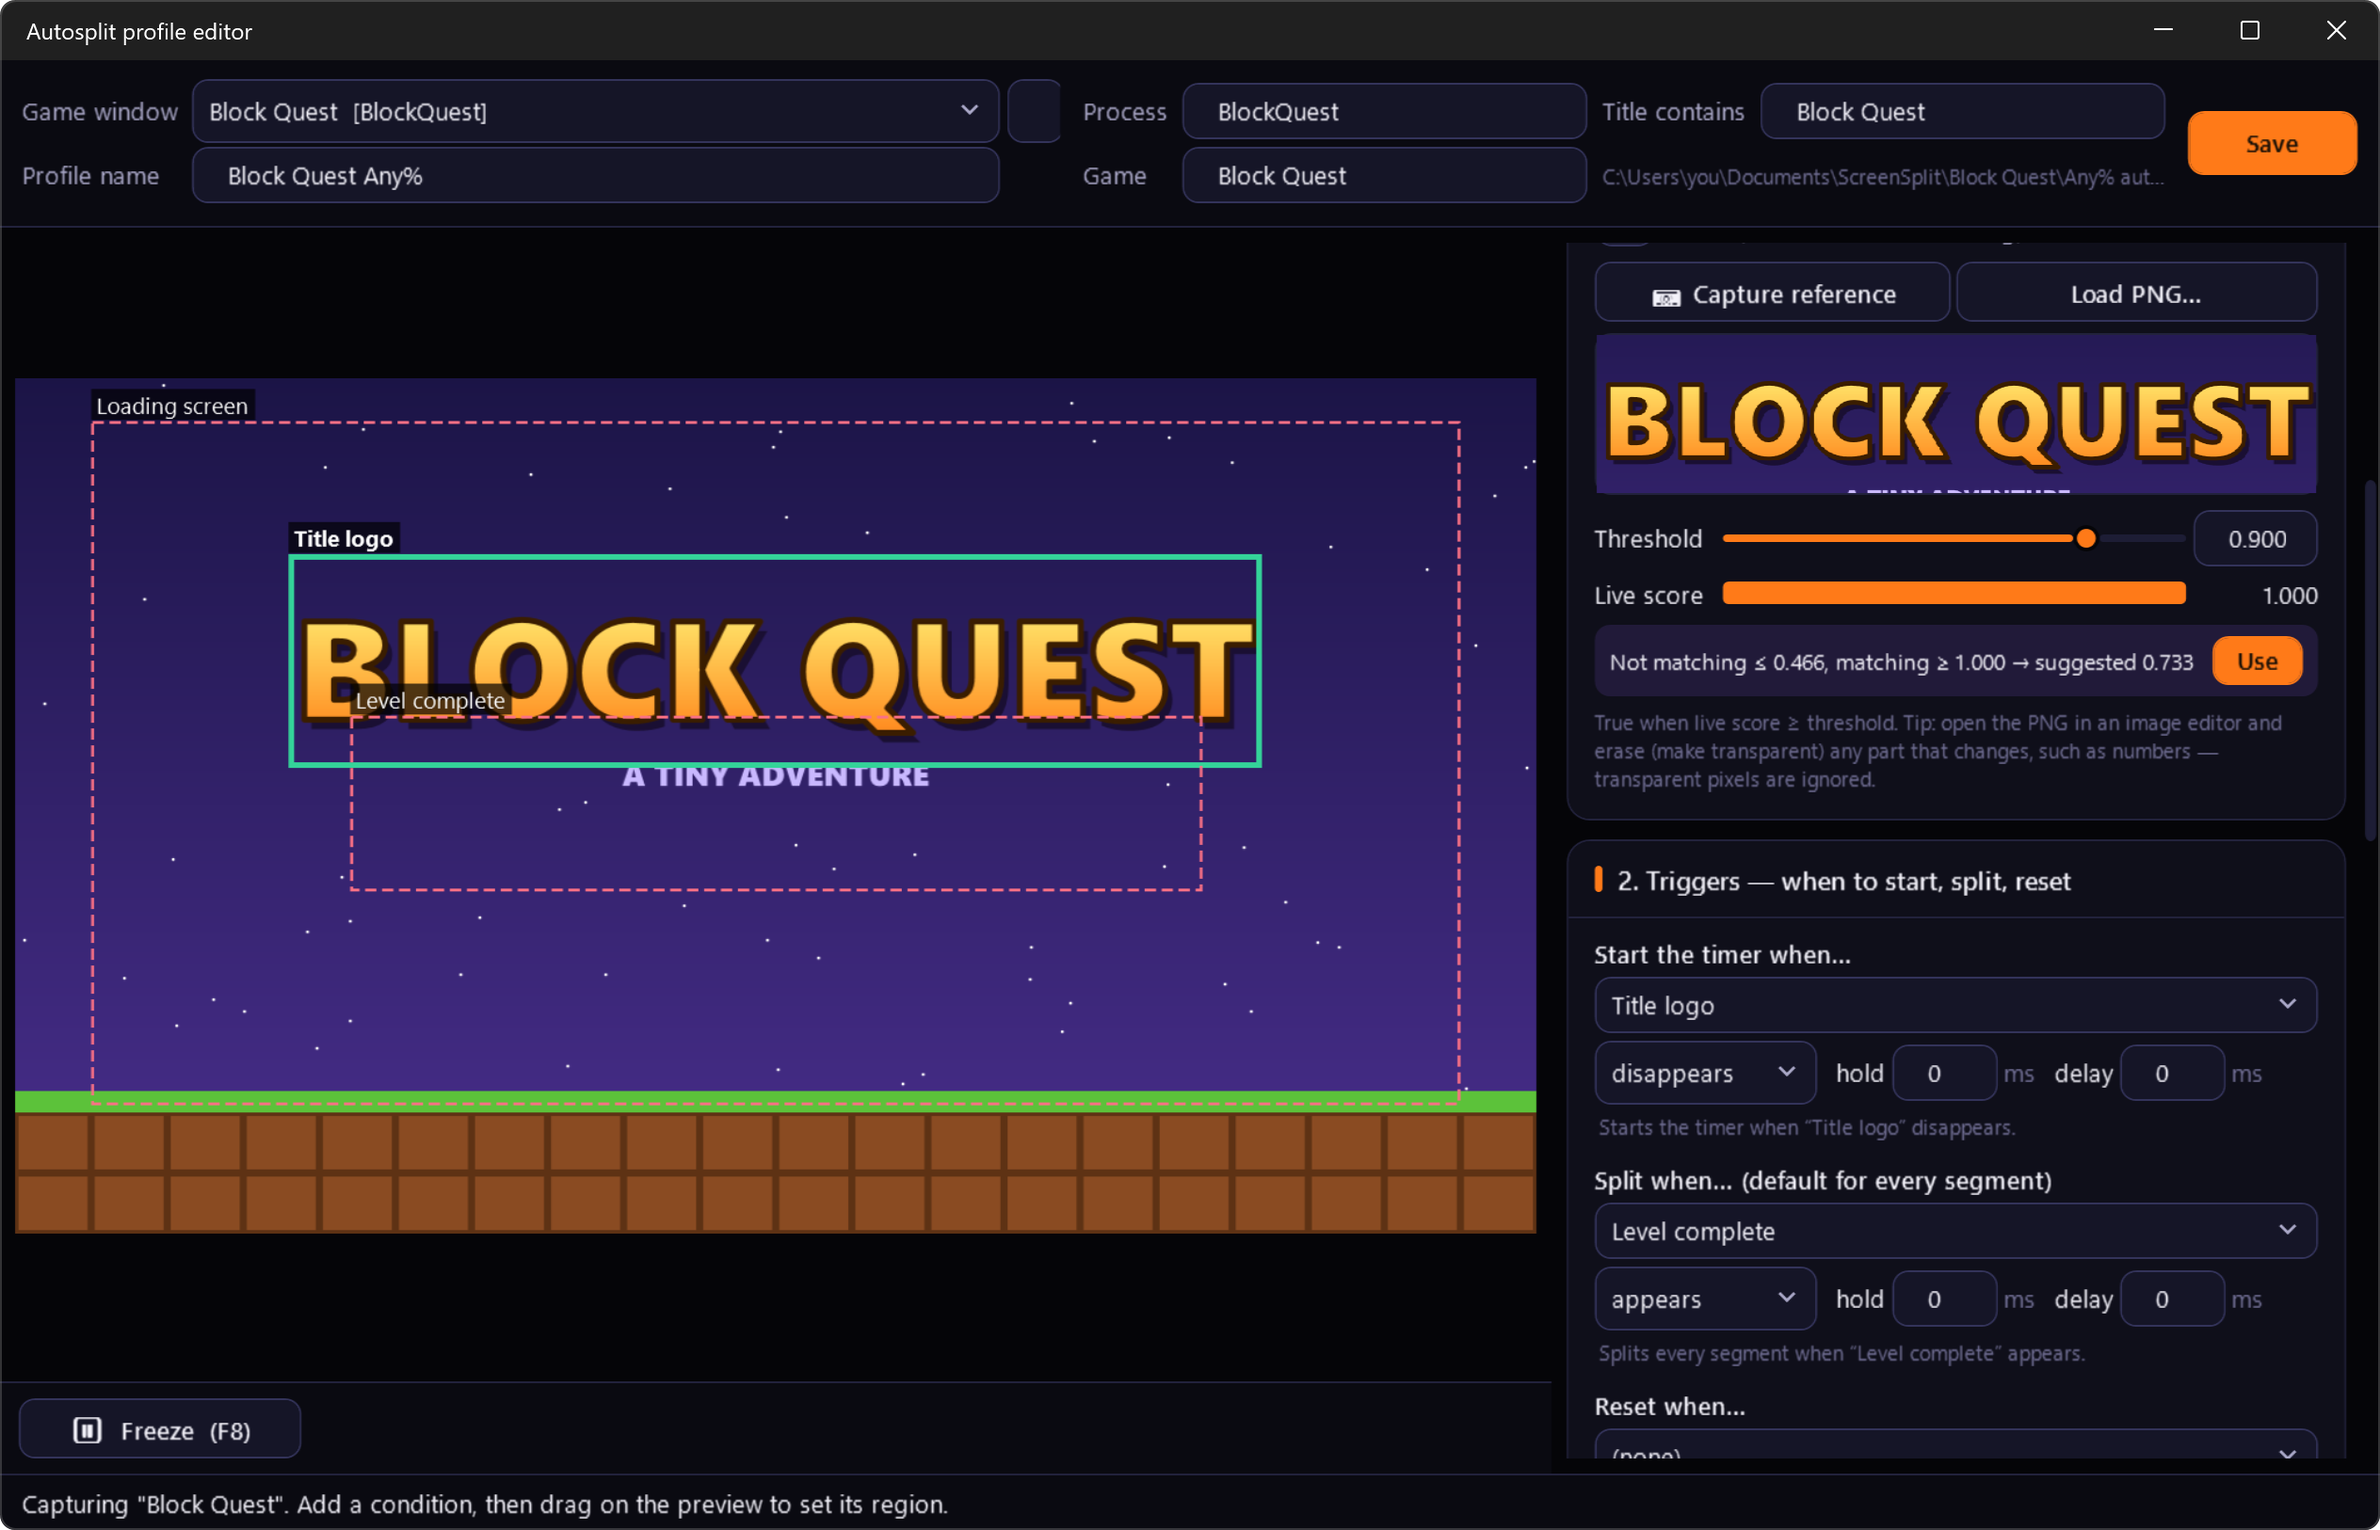
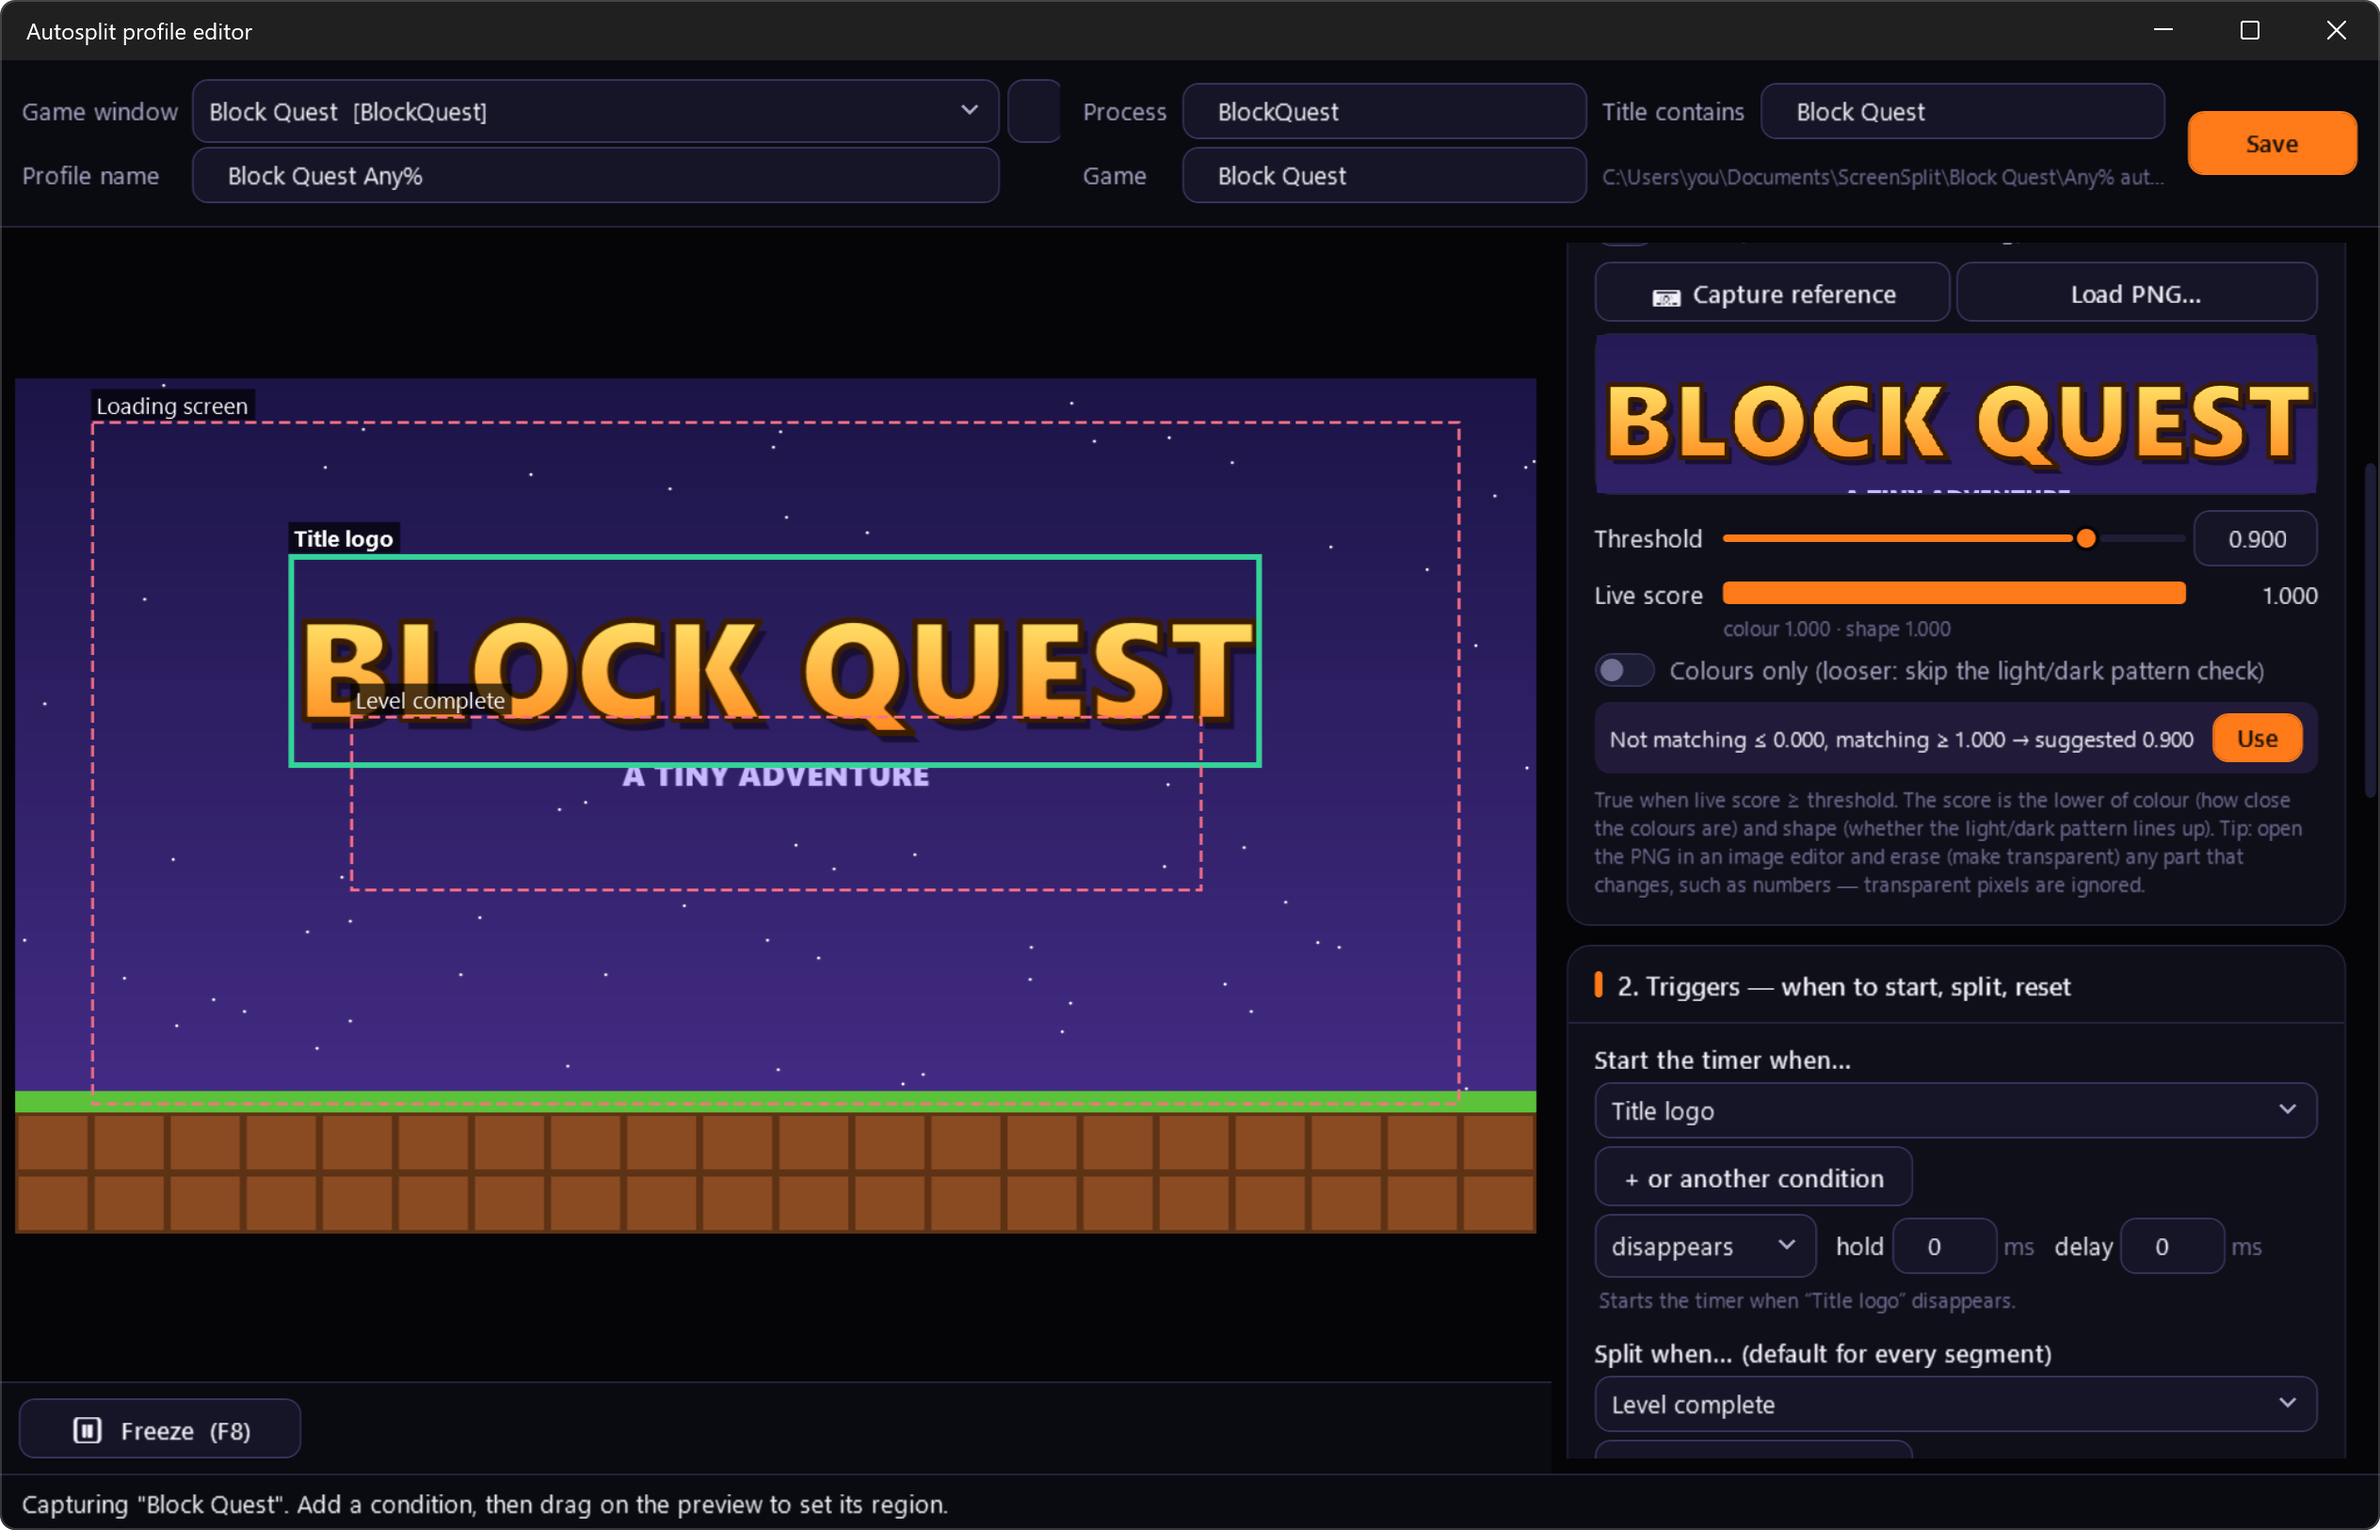
HOW-TO and README: several conditions per split, shape check, whole-screen capture (0.7.4)

Changed region(s): [[0.6562, 0.3998, 1.0, 0.9533], [0.9375, 0.9225, 0.9688, 0.9533]]

diff --git a/HOW-TO-AUTOSPLIT.md b/HOW-TO-AUTOSPLIT.md
@@ -99,13 +99,19 @@ already have splits for that category, your times are kept and only the autospli
 ## 3. Point it at the game
 
 1. Start the game.
-2. In the editor, pick it from **Game window** (click **↻** if it isn't in the list).
+2. In the editor, pick it from **Capture** (click **↻** if it isn't in the list).
    The live preview appears on the left.
 3. **Process** and **Title contains** fill in automatically. These are how the timer finds the game
    later:
    - **Process** is the exe name without `.exe`. It's the most reliable, so keep it.
    - **Title contains**: if the title changes (version numbers, FPS counters), shorten it to the
      part that never changes, or clear it and rely on Process.
+
+**Game not in the list, or its preview stays black?** Some anti-cheats hide the game's window or
+block capturing it. Pick a **Whole screen** from the top of the **Capture** list instead, and play
+the game fullscreen or borderless on that screen. Regions are then parts of the whole screen, so
+keep the game's resolution and window position the same. Process and Title contains are optional
+then; they're only used to show the game's icon.
 
 ## 4. Plan before you click
 
@@ -142,8 +148,8 @@ One condition can serve several triggers. In this example the title logo does bo
 1. Click **+ Image**.
 2. **Name** it something readable, like *Title logo*. The **Id** is the internal name; letters,
    digits, `-` and `_` only.
-3. **Drag a rectangle** over the preview around the thing to detect. **Keep it tight.** Large regions
-   that are mostly dark background score high even when the thing isn't there.
+3. **Drag a rectangle** over the preview around the thing to detect. **Keep it tight.** A region
+   that is mostly plain background tells you less about the thing you want.
 4. Get the game to show the thing, then click **📷 Capture reference**. **Live score** should now
    read about **1.000**.
    - **Thing only shows for a moment?** Play normally, and right after it appears press **F8**. This
@@ -154,9 +160,16 @@ One condition can serve several triggers. In this example the title logo does bo
      <p align="center"><img src="images/editor-freeze.png" width="760" alt="The preview frozen with F8 and scrubbed 3.2 seconds back to the frame where the LEVEL COMPLETE banner was on screen"><br>
      <sub>Frozen with F8 and dragged back 3.2 s to the frame with the banner.</sub></p>
 5. **Set the threshold.** Let the thing appear and disappear once or twice. The purple box under
-   the live score watches the scores and says e.g. *Not matching ≤ 0.70, matching ≥ 0.99 → suggested
-   0.845*. Click **Use**. If it says there's no clear split, the region is too loose or something in
+   the live score watches the scores and says e.g. *Not matching ≤ 0.000, matching ≥ 0.990 → suggested
+   0.890*. Click **Use**. If it says there's no clear split, the region is too loose or something in
    it moves; tighten it or erase the moving parts (next step). The dot turns green when it matches.
+
+   The score is the lower of two checks, shown under the live score as e.g. *colour 0.991 · shape
+   0.420*. **Colour** is how close the colours are. **Shape** is whether the light/dark pattern lines
+   up. Shape is what stops look-alikes: a dark scene or a fade to black can match a black load
+   screen on colour alone, and so can one menu and another drawn in the same style. A real match
+   scores high on both. If the real thing keeps scoring low on shape because part of it changes
+   every time, erase that part (next step), or as a last resort tick **Colours only**.
 
    <p align="center"><img src="images/editor-image.png" width="760" alt="The profile editor: live preview of the game on the left with the Title logo region outlined in green, and on the right the captured reference, threshold, live score 1.000 and the suggested threshold with a Use button"><br>
    <sub>An image condition on the title logo: the green box is matching (live score 1.000), and the purple box suggests a threshold.
@@ -209,6 +222,7 @@ Under **2. Triggers**:
 | Field | Meaning |
 |---|---|
 | **Start the timer when…** | Condition + *appears* or *disappears* |
+| **+ or another condition** | Under any trigger: also fire on this other condition. Use it when a split can happen for more than one reason |
 | **Split when…** | The default split check, used for every segment without its own |
 | **Reset when…** | Optional; resets the run, keeping golds and the attempt |
 | **appears / disappears** | Fire when the condition becomes true, or becomes false |
@@ -227,6 +241,10 @@ Rules to know:
   pause (1000 ms by default, under *5. Fail-safes*).
 - Every trigger shows a sentence under it saying what it does, e.g. *Splits every segment when
   "time SE" appears.*
+- **Several reasons to split?** Click **+ or another condition** under the trigger and pick the
+  other one, e.g. *Level complete* or *Boss defeated*. Whichever appears first splits, and the
+  event log names it. Click **✕** to remove one. This works for start, reset and per-segment checks
+  too.
 - **Per-segment split checks** (expand the section) list every segment with what ends it. Pick a
   condition to give a segment its own check. Example: chapters 1–7 split on "CHAPTER COMPLETE", the
   last one on the credits. Leave the rest on *↳ use the default split check*.
@@ -250,7 +268,9 @@ Every split a fail-safe ignores shows up in the event read-out with the reason.
 
 1. Make a condition for each kind of load screen: a **black screen** image (capture the full or
    near-full window while it's black, threshold ~0.97), the game's **Loading** text, a door or
-   elevator transition, and so on.
+   elevator transition, and so on. Capture each one while it shows what it always shows. If a
+   spinner or a "Loading" label only shows some of the time, erase it from the PNG (§5, step 6), or
+   the shape check will see the screen as different whenever it shows.
 2. Under **3. Load removal**, click **+ Add a load screen** for each one and pick its condition.
    Click **✕** to remove one.
 3. On the timer, right-click → **Compare against → Game Time** if your category uses load-removed
@@ -389,14 +409,16 @@ measured within ±10 ms of the screen change, roughly one frame at 60 fps.
 | Symptom | Fix |
 |---|---|
 | Never matches | Region not tight enough or wrong spot; recapture the reference while the thing is on screen; use the suggested threshold |
-| Matches when it shouldn't | Use the suggested threshold, tighten the region, or mask changing pixels with transparency |
+| Matches when it shouldn't | Use the suggested threshold, tighten the region, or mask changing pixels with transparency. Make sure **Colours only** is off |
+| Never matches, *shape* is low | Something in the region changes every time: erase it from the PNG, or tick **Colours only** |
 | Splits twice | Open the **event log** to see why; raise **Must be gone before it can fire again** or set a **Shortest possible segment** |
 | Text split a bit late | Raise *OCR reads per second* under Advanced, or use an image condition instead |
-| Preview is black | Make sure capture is *Graphics Capture*; use borderless windowed instead of exclusive fullscreen |
+| Preview is black | Make sure capture is *Graphics Capture*; use borderless windowed instead of exclusive fullscreen. Still black, or the game isn't in the list (some anti-cheats block window capture)? Pick a **Whole screen** under **Capture** |
 | OCR sees no text | Make the box a bit bigger than the text; keep **Auto clean-up** on; check an OCR language is installed |
 | OCR reads garbage | Keep other text out of the box; keep **Allow OCR mistakes** on; or turn Auto clean-up off and tune by hand |
 | Worked, then stopped | Game resolution or aspect ratio changed, or the UI scale changed in the game's settings |
 | Wrong window found | Make **Process** more specific; clear **Title contains** |
+| Game not in the **Capture** list | Click **↻**. If it still isn't there, pick a **Whole screen** instead (see section 3) |
 
 ## 11. Share it
 

diff --git a/README.md b/README.md
@@ -20,7 +20,8 @@ A speedrun timer with an autosplitter that **watches the screen**. There are no 
 
 ## What it does
 
-- **Screen-based autosplitting:** match an image, read text (OCR) or detect loading screens (as many kinds as the game has). Splits are timed from the frame where the change appeared.
+- **Screen-based autosplitting:** match an image, read text (OCR) or detect loading screens (as many kinds as the game has), with several possible reasons per split. Image matching checks the picture's shape as well as its colours, so dark scenes and fades don't pass for a load screen. Splits are timed from the frame where the change appeared.
+- **Works when anti-cheat gets in the way:** if a game's window can't be captured, watch the whole screen instead.
 - **Easy setup:** freeze the last 10 seconds and scrub back to grab the exact frame, get a suggested threshold, and use a test run that logs every split and why.
 - **A full timer:** PB, golds, sum of best, attempt history, Real Time and Game Time (or both at once).
 - **Shareable autosplitters:** one `.screensplit` file holds a game's whole autosplitter. Double-click it and it's ready to run.
